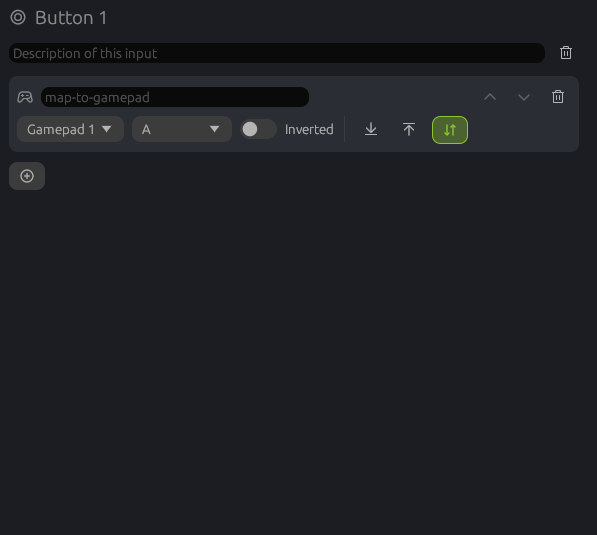
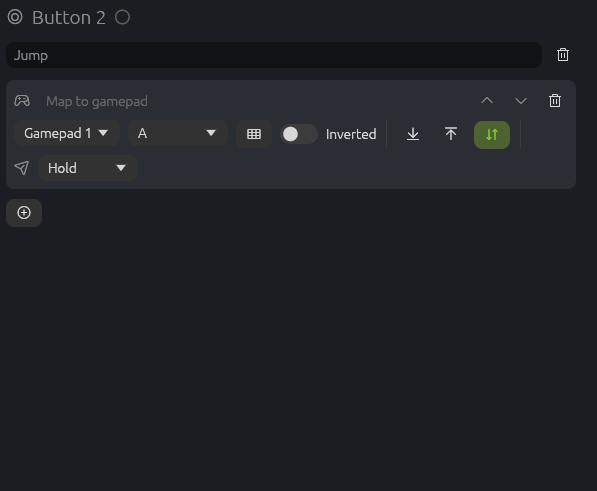
docs: How to send in the output pictures, README and code notes

diff --git a/site/learn.html b/site/learn.html
@@ -221,15 +221,15 @@
           <h2 id="output-title">Output</h2>
           <article class="learn-action" id="map-to-vjoy">
             <h3><i class="ph ph-joystick" aria-hidden="true"></i>Map to virtual stick</h3>
-            <p>Sends the value to a virtual joystick: an axis to an axis, a button to a button, a hat to a hat. Pick the virtual stick (vJoy device on Windows) and its input; a button can be inverted. An axis can also be <strong>relative</strong>: then the input sets the speed at which the virtual axis moves, and the axis stays where it is when you let go.</p>
+            <p>Sends the value to a virtual joystick: an axis to an axis, a button to a button, a hat to a hat. Pick the virtual stick (vJoy device on Windows) and its input; a button can be inverted, and <a href="#how-to-send">How to send</a> sets how it follows the input. An axis can also be <strong>relative</strong>: then the input sets the speed at which the virtual axis moves, and the axis stays where it is when you let go.</p>
             <p>A new Map to virtual stick starts on the virtual stick you picked last and its first output that nothing else uses yet. The grid button next to the lists shows every output of each virtual stick at once, and a click picks one. There and in the output list, outputs other inputs already use are <strong>blue</strong>, outputs that several inputs running at the same time write are <strong>amber</strong>, and a tooltip names the inputs. Outputs that another action of the same input already writes are grayed out: two actions of one input never write the same output. If a profile already has that, a warning sign shows next to the action. A copied Map to virtual stick moves to a free output by itself.</p>
-            <figure class="shot"><img src="img/actions/map-to-vjoy.png" loading="lazy" alt="Map to virtual stick: vJoy device 1, button 1, not inverted, runs on press and release"></figure>
+            <figure class="shot"><img src="img/actions/map-to-vjoy.png" loading="lazy" alt="Map to virtual stick: vJoy device 1, button 1, not inverted, runs on press and release, held while the input is"></figure>
           </article>
           <article class="learn-action" id="map-to-gamepad">
             <h3><i class="ph ph-game-controller" aria-hidden="true"></i>Map to gamepad</h3>
-            <p>Linux only for now. Sends the value to a virtual <strong>Xbox-style gamepad</strong>: games, Steam and Proton see an Xbox 360 controller, so a game that only understands gamepads can be played with a stick. Add the gamepad on the <span class="term">Virtual joysticks</span> page first (up to four), then pick it and a control that suits the input: a button presses a gamepad button, a d-pad direction or a trigger; an axis moves a stick axis or a trigger (the whole axis range becomes the trigger's travel); a hat drives the d-pad. Buttons and axes can be inverted.</p>
+            <p>Linux only for now. Sends the value to a virtual <strong>Xbox-style gamepad</strong>: games, Steam and Proton see an Xbox 360 controller, so a game that only understands gamepads can be played with a stick. Add the gamepad on the <span class="term">Virtual joysticks</span> page first (up to four), then pick it and a control that suits the input: a button presses a gamepad button, a d-pad direction or a trigger; an axis moves a stick axis or a trigger (the whole axis range becomes the trigger's travel); a hat drives the d-pad. Buttons and axes can be inverted; for a button, <a href="#how-to-send">How to send</a> sets how it follows the input.</p>
             <p><strong>Picking the control works like <a href="#map-to-vjoy">Map to virtual stick</a>.</strong> A new one starts on the gamepad you picked last and its first free control. The grid button next to the lists shows the controls of every gamepad at once, and a click picks one. Controls other inputs already use are marked the same way.</p>
-            <figure class="shot"><img src="img/actions/map-to-gamepad.png" loading="lazy" alt="Map to gamepad: gamepad 1, button A, not inverted, runs on press and release"></figure>
+            <figure class="shot"><img src="img/actions/map-to-gamepad.png" loading="lazy" alt="Map to gamepad: gamepad 1, button A, not inverted, runs on press and release, held while the input is"></figure>
           </article>
           <article class="learn-action" id="map-to-keyboard">
             <h3><i class="ph ph-keyboard" aria-hidden="true"></i>Map to keyboard</h3>
@@ -238,8 +238,8 @@
           </article>
           <article class="learn-action" id="map-to-mouse">
             <h3><i class="ph ph-mouse" aria-hidden="true"></i>Map to mouse</h3>
-            <p>A button clicks a mouse button (left, right, middle, back, forward) or turns the wheel one notch. An axis or a hat moves the cursor instead: set the direction and the speed range; the further the axis is pushed, the faster the cursor moves.</p>
-            <figure class="shot"><img src="img/actions/map-to-mouse.png" loading="lazy" alt="Map to mouse: left button"></figure>
+            <p>A button clicks a mouse button (left, right, middle, back, forward) or turns the wheel one notch; <a href="#how-to-send">How to send</a> sets whether it is held, pulsed, repeated or toggled. An axis or a hat moves the cursor instead: set the direction and the speed range; the further the axis is pushed, the faster the cursor moves.</p>
+            <figure class="shot"><img src="img/actions/map-to-mouse.png" loading="lazy" alt="Map to mouse: left button, held while the input is"></figure>
             <figure class="shot"><img src="img/actions/map-to-mouse-motion.png" loading="lazy" alt="Map to mouse on an axis: cursor motion with direction and speed"></figure>
           </article>
           <article class="learn-action" id="map-to-logical-device">
@@ -260,7 +260,7 @@
               <li><strong>Toggle</strong>: the first press holds it down, the next one lets it go.</li>
             </ul>
             <p>Whatever is still down when the profile stops or another profile starts is let go, so nothing stays stuck.</p>
-            <p>A picture of it is under <a href="#map-to-keyboard">Map to keyboard</a>.</p>
+            <p>It is in the pictures of every output above; <a href="#map-to-keyboard">Map to keyboard</a> shows Repeat with its times.</p>
           </article>
           <article class="learn-action" id="button-axis">
             <h3><i class="ph ph-sliders-horizontal" aria-hidden="true"></i>Axis from buttons</h3>

diff --git a/CLAUDE.md b/CLAUDE.md
@@ -23,6 +23,8 @@ branch (16.x) - read it for behavior. Work on ONE crate per session.
 - crates/gob-core    profile model
 - crates/gob-core    profile model grown from Gremlin R14: generic Action{kind, items} + typed `Action::kind()` views;
   modifier.rs = modifiers and input layers (Joystick Gobloon only, `Profile::needs_own_format`)
+  button_axis.rs = axis from buttons (set/velocity/stepped/encoder/smooth, second "decrease" input);
+  `Action::button_send` = How to send of button outputs (`send-mode` hold/press/release/pulse/repeat/toggle)
   automap.rs = the new profile wizard's mapping (every input of a device onto one vJoy device); `Profile::output_usage`
   = which inputs write each virtual output (used/conflict marks, wizard_view.rs + output_marks.rs in the GUI)
 - crates/gob-gremlin XML <-> Element <-> Profile: Gremlin R14+ import, written as `<profile version="14">` while
@@ -32,7 +34,8 @@ branch (16.x) - read it for behavior. Work on ONE crate per session.
   buffered buttons/hats; ids = DI instance GUIDs like Gremlin; links dinput8.lib/dxguid.lib statically (-bundle)
   for c_dfDIJoystick2; Xbox controllers (`IG_` in the path) are read through XInput in xinput.rs: LT=Z, RT=Rz,
   Guide = button 11), platform/linux/ = evdev (ids hash serial/phys, DirectInput axis slots, SDL button
-  order, keyboards -> set 1 scan codes; hid.rs = buttons past evdev's 80 from hidraw (report descriptor,
+  order, keyboards -> set 1 scan codes; rescans every 2 s open only new or changed nodes (evdev.rs `NodeCache`:
+  closing an event node waits for an RCU grace period and stalled reads); hid.rs = buttons past evdev's 80 from hidraw (report descriptor,
   usage = button number; per-stick udev rule, `unread_buttons` until allowed); tests/uinput.rs = virtual
   devices, tests/uhid.rs = 128-button HID stick (needs the uhid module, not in WSL2), `check.ps1 --devices`),
   platform/none.rs elsewhere; example `monitor`
@@ -80,7 +83,9 @@ branch (16.x) - read it for behavior. Work on ONE crate per session.
   nefarius/HidHide#217 and its releases before each gob-hidhide session (plans/HIDHIDE_PLAN.md)
 - crates/gob-engine  pure Engine (process/tick with explicit Instant, `Output` trait) following Gremlin R14
   semantics; platform/ = keyboard/mouse output (`Injector`) and speech (`SpeechEngine`): windows/ SendInput + SAPI (read ref/JoystickGremlin action_plugins/*/__init__.py functors); Runner = thread gob-input -> vJoy (`subscribe_timed`: RunnerStatus.latency = device read -> outputs written, per second, shown in the status bar);
-  examples `dry_run` (profile -> printed vJoy output) and `runner_check`
+  Runner batches writes: one driver call per virtual device and pass, unchanged values skipped (resent if a write
+  failed); send modes and button-axis motion run on engine timers (`next_deadline`), no allocations per event;
+  examples `dry_run` (profile -> printed vJoy output), `runner_check` and `engine_bench` (time + allocations per event)
 - crates/gob-lighting joystick LEDs: vendor-neutral `Device`/`Led` in lib.rs dispatching on `Vendor`; every vendor's
   protocol/SDK in its own file (vkb.rs: HID report 0x59 after pyvkb, CRC, dummy LED 99; hid/ = shared transport trait,
   hid/windows.rs = SetupAPI + HidD_Get/SetFeature). Writes last until reconnect; profiles set the colors they need on activation. Device path = DirectInput

diff --git a/README.md b/README.md
@@ -43,6 +43,8 @@ imports Joystick Gremlin profiles and keeps the workflow you know.
   made on another PC to your devices.
 - **Every Gremlin action** — map to vJoy, response curves, tempo, double tap, chain, macros, keyboard and mouse
   output, merge and split axis, conditions, sounds, text to speech and more — plus modes, undo / redo.
+- **Axis from buttons** (throttle on two buttons, trim on an encoder, detents in steps) and button outputs that
+  hold, pulse, repeat or toggle.
 - **New profile wizard**: name the profile, pick the virtual joystick each stick maps to, and every axis, button
   and hat is mapped at once.
 - **Modifiers and layers**: hold M1, M2 or both and the same button or axis does something else.
